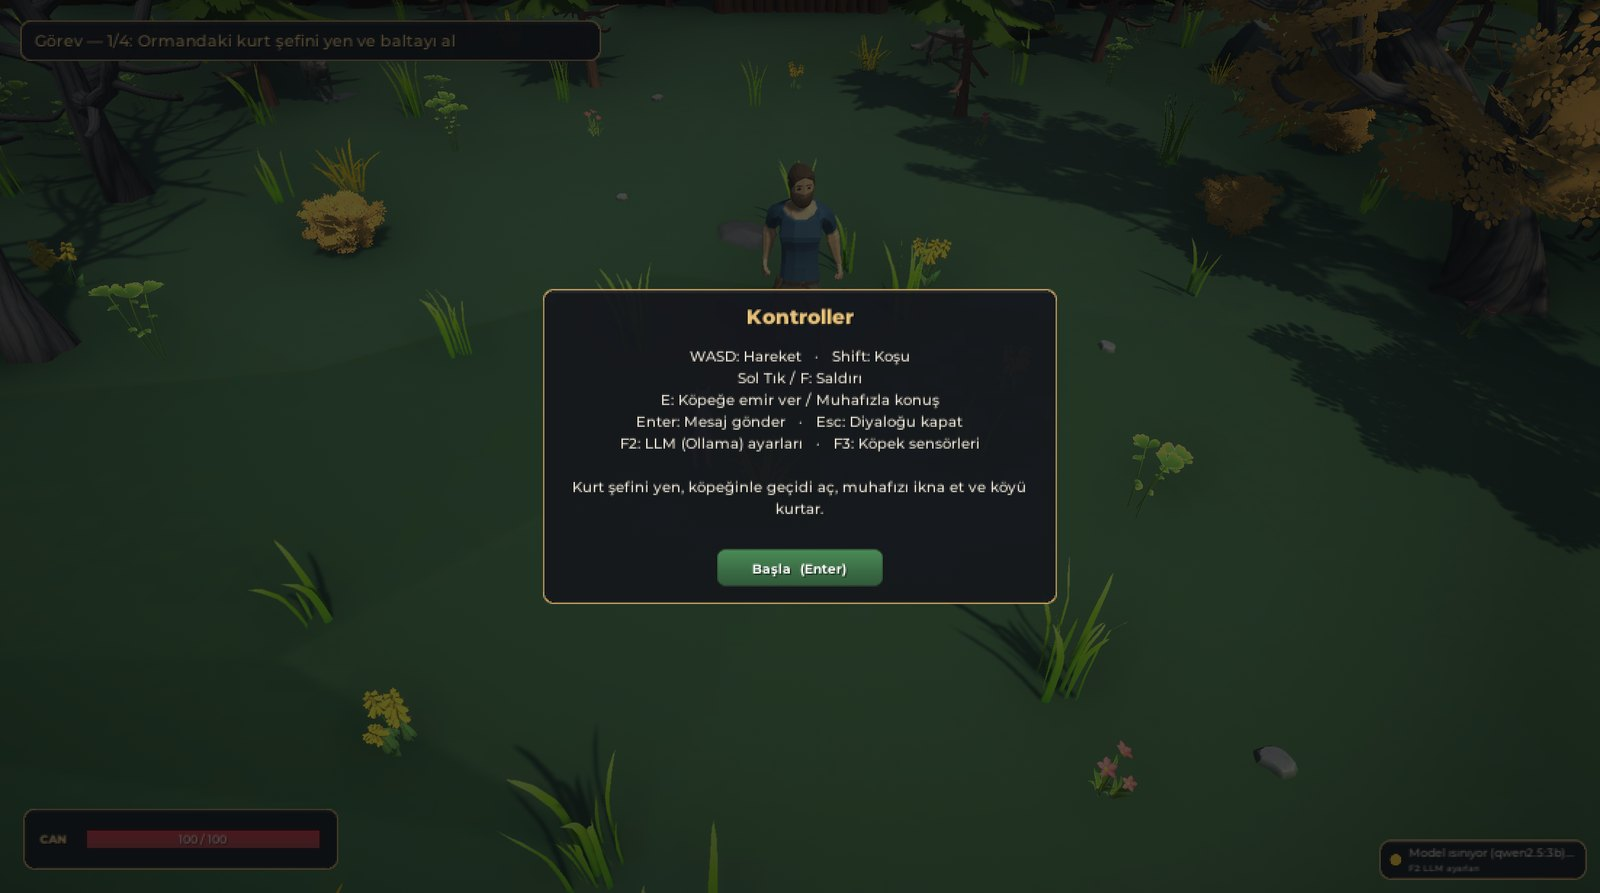
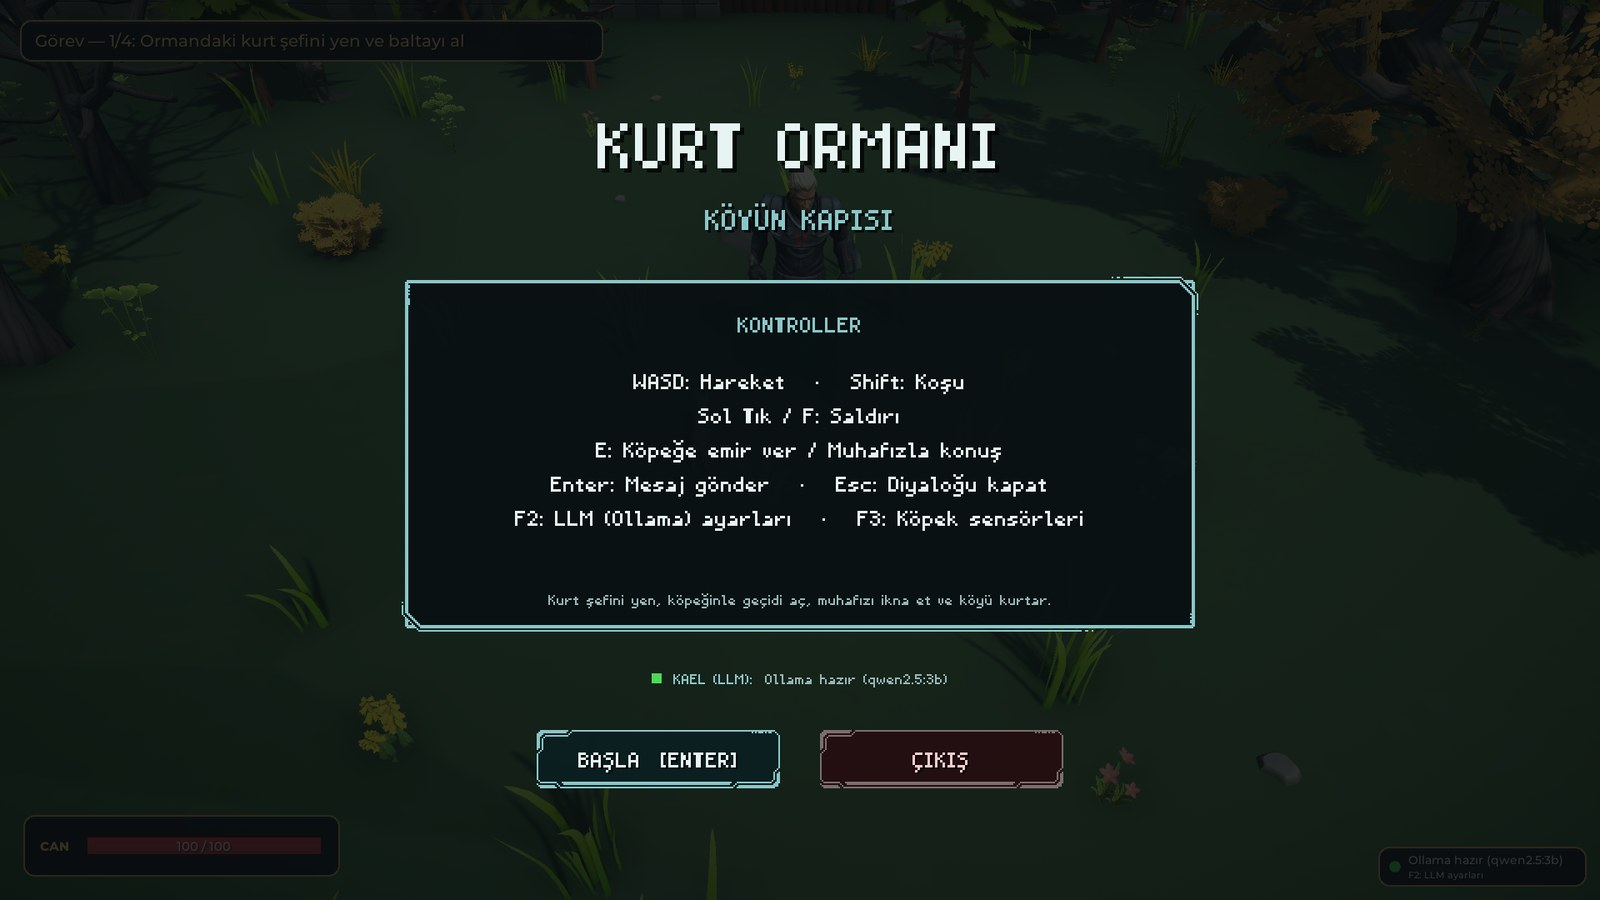
docs: giris ve zafer ekrani goruntuleri yeni arayuzle yenilendi, README piksel font notu eklendi

diff --git a/README.md b/README.md
@@ -89,6 +89,7 @@ Sunucu adresi ve model `Assets/_Project/ScriptableObjects/LlmConfig.asset` için
 - **Build almak:** Unity Editor kapalıyken `./Tools/build.sh [linux|windows|all]`. Betik Unity'yi bulur, batchmode'da build alır ve sonucu `Logs/build_*.log` dosyasından okuyup tek satırla bildirir.
 - **Editör:** `Assets/Scenes/GameScene.unity` açılıp Play'e basılır. Son kapıdan geçince `Bolum3_Koy` sahnesi yüklenir.
 - Sahneler elle değil, editör menüleriyle kurulur: `Yazlab/Kurulum/*` (oyun mantığı, NavMesh, köpek, NPC, akış), `Yazlab/Gorsel/*` (UI teması, çevre, malzemeler, post processing). Menülerin hepsi tekrar çalıştırılabilir.
+- **Piksel font:** Giriş ve bitiş ekranları *SHADOW Series - Free UI* çerçeveleri ve *Quadlet* (fcidade) piksel fontuyla çizilir. Quadlet'in lisansı font dosyasının açık bir repoya konmasına izin vermediği için font repoda yoktur; build'de vardır. Repodan açılan projede bu ekranlar aynı düzenle Montserrat fontuyla görünür (`PixelFontText` font yoksa sahnedeki yedek fontu bırakır). Quadlet'te bulunmayan ş, ğ, İ harfleri `Tools/quadlet_tr.py` ile eklenir.
 
 ### 2.3. Kontroller
 
@@ -122,7 +123,7 @@ Assets/
 │   │   ├── Actions/     IGameAction, GameActionDispatcher, OpenDoorAction, StartCombatAction, EndConversationAction
 │   │   ├── World/       IInteractable, IOpenable, IResettable, Lever, Gate, RandomizedPlacement, StepAsideOnOpen
 │   │   ├── UI/          IDialogueView, DialogueView, PlayerHealthBar, BossHealthBar, ObjectiveTracker, EndScreen,
-│   │   │                LlmStatusIndicator, LlmSettingsPanel, StartScreen
+│   │   │                LlmStatusIndicator, LlmSettingsPanel, StartScreen, PixelFontText, UiStripAnimator
 │   │   ├── Enemies/     EnemyConfig
 │   │   ├── Player/      PlayerConfig, PlayerInputReader, PlayerSpawnPoint
 │   │   └── Testing/     CompanionTestHarness, DialogueScenarioRunner ve raporlayıcıları
@@ -653,7 +654,7 @@ Ham JSON (2. tur):
 | | |
 |---|---|
 | ![Başlangıç](Docs/screenshots/01_baslangic.jpg) | ![Orman](Docs/screenshots/02_orman.jpg) |
-| Kontroller kartı ve görev satırı | Orman: can barı, görev satırı, LLM durum ışığı, köpek takipte |
+| Giriş ekranı: kontroller, LLM durumu (bağlanırken yükleme animasyonu), Başla / Çıkış | Orman: can barı, görev satırı, LLM durum ışığı, köpek takipte |
 | ![Tünel](Docs/screenshots/03_kopek_tunel_sensor.jpg) | ![Şalter](Docs/screenshots/04_kopek_salter.jpg) |
 | Köpek tünelin ağzında; sensör ışınları (F3) ve hedefe görüş hattı | Köpek şalteri çekiyor (`Activate`), sensör yelpazesi |
 | ![Geçit](Docs/screenshots/05_gecit_acildi.jpg) | ![Düşünüyor](Docs/screenshots/06_kael_dusunuyor.jpg) |
@@ -663,7 +664,7 @@ Ham JSON (2. tur):
 | ![Köy](Docs/screenshots/09_koy_giris.jpg) | ![Reis](Docs/screenshots/10_reis_savasi.jpg) |
 | Köy: balta elde taşındı, kütük palisadın girişi | Kabile reisi ve kurtlar, alt kısımda boss can barı |
 | ![Zafer](Docs/screenshots/11_zafer.jpg) | ![Hata](Docs/screenshots/12_llm_sunucu_kapali.jpg) |
-| Zafer ekranı ve oyun özeti | Ollama kapalı: sistem mesajı, Tekrar Dene, kırmızı durum ışığı |
+| Zafer ekranı: oyun özeti, Yeniden Oyna / Çıkış | Ollama kapalı: sistem mesajı, Tekrar Dene, kırmızı durum ışığı |
 
 ## 10. Sonuç ve Tartışma
 
